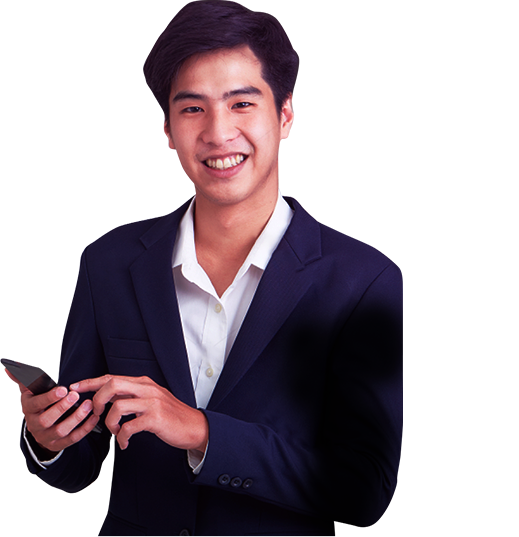
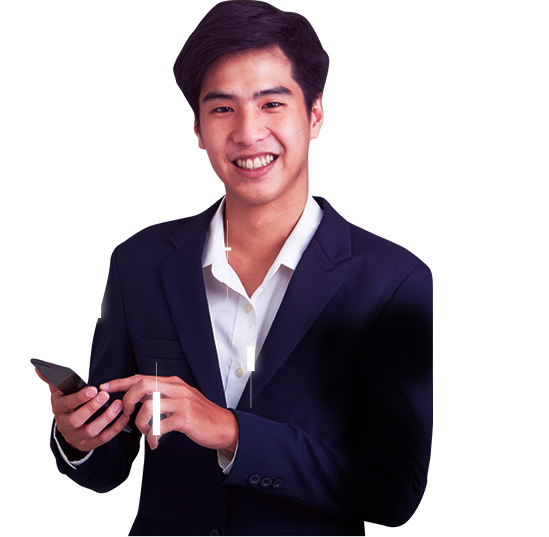
стилизовал блок free-simulator

diff --git a/src/scss/basic.scss b/src/scss/basic.scss
@@ -1,7 +1,6 @@
 body {
   display: flex;
   flex-direction: column;
-  align-content: stretch;
 }
 
 .title {
@@ -32,7 +31,8 @@ body {
 }
 
 .subhead {
-  font-size: 16px;
+  margin-bottom: 10px;
+  font-size: 14px;
   color: $main-color-2;
   font-family: $ff-OpenSans-SemiBold;
   text-transform: uppercase;
@@ -63,10 +63,10 @@ body {
   text-transform: uppercase;
   text-decoration: none;
   cursor: poiner;
-  box-shadow: 15px 15px 15px 5px rgba(177,69,153,0.075),
-              -15px -15px 15px 5px rgba(177,69,153,0.075),
-              15px -15px 15px 5px rgba(177,69,153,0.075),
-              -15px 15px 15px 5px rgba(177,69,153,0.075);
+  box-shadow: 15px 15px 15px 5px rgba(177, 69, 153, 0.075),
+              -15px -15px 15px 5px rgba(177, 69, 153, 0.075),
+              15px -15px 15px 5px rgba(177, 69, 153, 0.075),
+              -15px 15px 15px 5px rgba(177, 69, 153, 0.075);
 
   &:hover {
     box-shadow: none;
@@ -85,20 +85,19 @@ body {
 
 .top-section {
   position: relative;
-  width: calc(100% - (2 * #{$gap}));
   width: 100%;
   padding-top: 72px;
   padding-left: 0;
   padding-right: 0;
   padding-bottom: 200px;
-  background: url('../img/bg-top-01.png') no-repeat,
-              url('../img/bg-top-cow.png') no-repeat,
-              url('../img/bg-top-man.png') no-repeat,
-              url('../img/bg-top-00.png') no-repeat;
-  background-position:  bottom left 58%,
-                        bottom left 80%,
-                        bottom left 80%,
-                        top center;
+  background:
+    url('../img/bg-top-cow.png') no-repeat,
+    url('../img/bg-top-man.png') no-repeat,
+    url('../img/bg-top-00.png') no-repeat;
+  background-position:
+    bottom left 80%,
+    bottom left 80%,
+    top center;
 
   &:before {
     content: '';
@@ -114,14 +113,41 @@ body {
 }
 
 .free-simulator {
+  margin-top: 160px;
+  background: url('../img/bg-sim-01.png') no-repeat;
+  background-position: top left;
+
   &__img-wrap {
+    display: flex;
+    justify-content: center;
     max-width: 100%;
+    padding-bottom: 22px;
+    background:
+      url('../img/bg-sim-02.png') no-repeat,
+      url('../img/bg-sim-03.png') no-repeat;
+    background-position:
+      top 57px right,
+      bottom right;
+
 
     img {
+      display: block;
       object-fit: contain;
     }
   }
 }
+
+.benefits {
+
+  &__item {
+    text-align: center;
+    font-family: ff-OpenSans;
+    color: $text-color;
+    font-size: 14px;
+
+  }
+}
+
 
 .start {
   // width: 100%;

diff --git a/src/scss/mygrid.scss b/src/scss/mygrid.scss
@@ -25,7 +25,8 @@
 .container {
   display: flex;
   flex-direction: column;
-  align-content: center;
+  margin-left: auto;
+  margin-right: auto;
   max-width: 100%;
 }
 
@@ -39,7 +40,8 @@
 
 [class*='col-'] {
   width: 100%;
-  margin: 0 (#{$gap} * -1);
+  margin: 0 calc(#{$gap} * -1);
+  padding: 0 15px;
 }
 
 @media (max-width: $screen-xs) {
